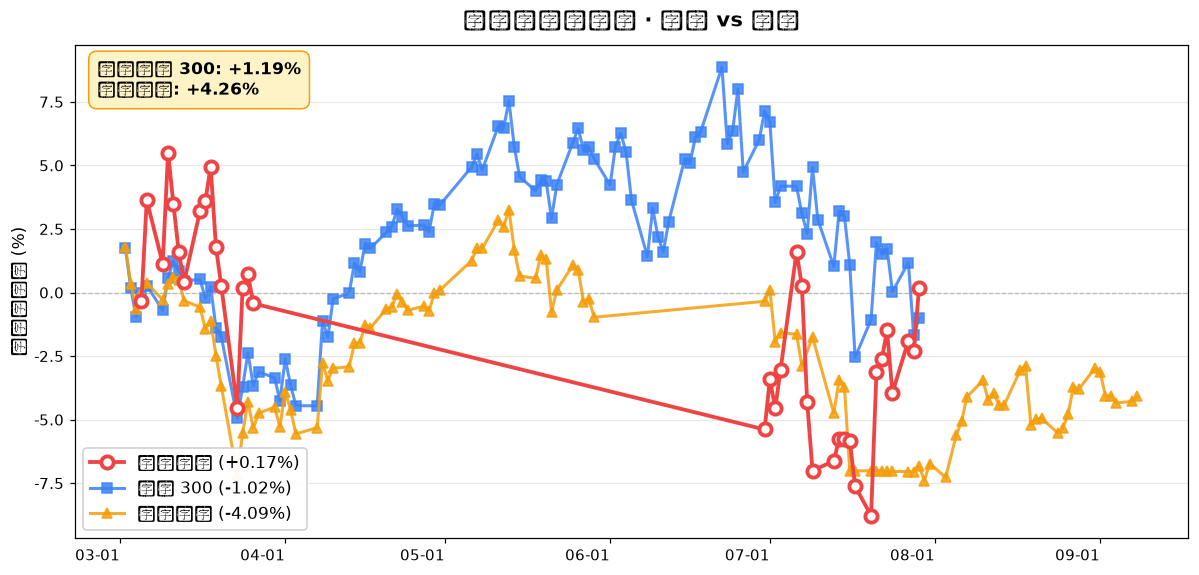
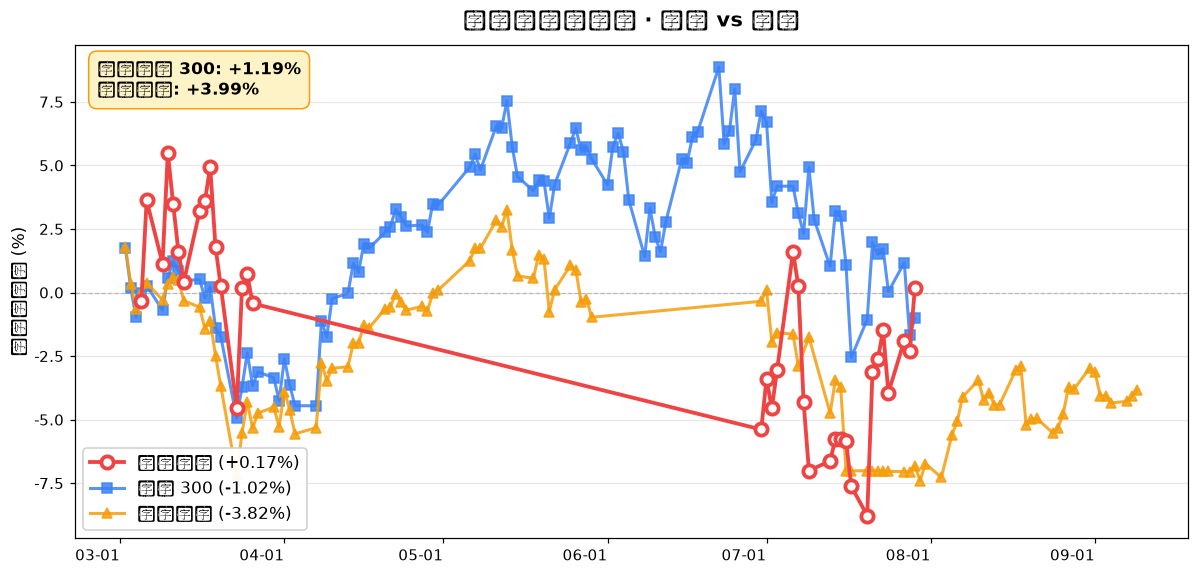
deploy dashboard 2026-09-09

diff --git a/dashboard/index.html b/dashboard/index.html
@@ -111,7 +111,7 @@
 
 <div class="header">
   <h1 data-i18n="title">📊 持仓 Dashboard</h1>
-  <div class="date">2026-09-09 · 更新于 08:21</div>
+  <div class="date">2026-09-09 · 更新于 08:38</div>
 </div>
 
 <div class="hero-pnl" style="padding:16px">
@@ -157,7 +157,7 @@
 
 <div class="excess">
         <b>🔴 跑赢 沪深 300</b>: +1.19%<br>
-        <b>🔴 跑赢 上证指数</b>: +4.26%
+        <b>🔴 跑赢 上证指数</b>: +3.99%
     </div>
 
 <div class="section">
